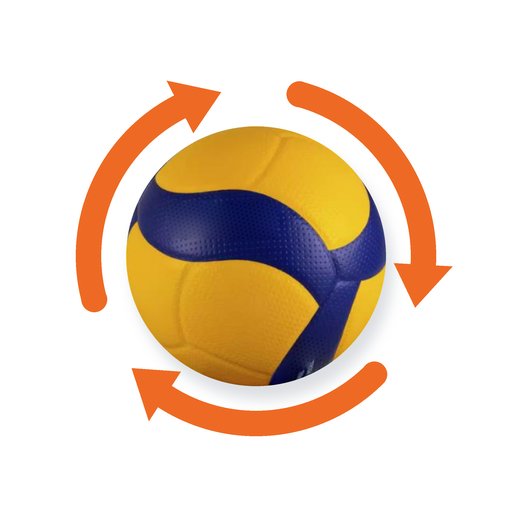
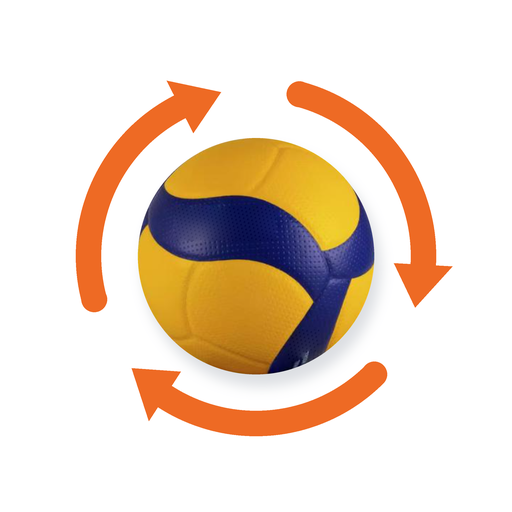
Mniejsza piłka w ikonie (wariant B, 91%)

Changed region(s): [[0.2188, 0.2188, 0.7812, 0.7812], [0.4688, 0.5, 0.5312, 0.5312], [0.5625, 0.5312, 0.5938, 0.5625]]

diff --git a/index.html b/index.html
@@ -9,9 +9,9 @@
 <meta name="apple-mobile-web-app-title" content="Rotacje">
 <meta name="apple-mobile-web-app-status-bar-style" content="default">
 <title>Rotacje w siatkówce</title>
-<link rel="manifest" href="manifest.webmanifest?v=3">
-<link rel="icon" type="image/png" sizes="32x32" href="icons/favicon-32.png?v=3">
-<link rel="apple-touch-icon" href="icons/apple-touch-icon.png?v=3">
+<link rel="manifest" href="manifest.webmanifest?v=4">
+<link rel="icon" type="image/png" sizes="32x32" href="icons/favicon-32.png?v=4">
+<link rel="apple-touch-icon" href="icons/apple-touch-icon.png?v=4">
 <link rel="preconnect" href="https://fonts.googleapis.com">
 <link rel="preconnect" href="https://fonts.gstatic.com" crossorigin>
 <link rel="stylesheet" href="https://fonts.googleapis.com/css2?family=Barlow+Condensed:wght@500;600;700&family=Barlow:wght@400;500;600&display=swap">

diff --git a/sw.js b/sw.js
@@ -1,15 +1,15 @@
 // Działanie offline: aplikacja i czcionki trafiają do pamięci podręcznej telefonu.
 // Strona jest pobierana najpierw z sieci (żeby aktualizacje docierały od razu), a bez internetu z pamięci.
 // Po zmianie listy plików lub ikon podbij numer wersji.
-const CACHE = "rotacje-v5";
+const CACHE = "rotacje-v6";
 const APP_FILES = [
   "./",
   "./index.html",
-  "./manifest.webmanifest?v=3",
-  "./icons/icon-192.png?v=3",
-  "./icons/icon-512.png?v=3",
-  "./icons/apple-touch-icon.png?v=3",
-  "./icons/favicon-32.png?v=3"
+  "./manifest.webmanifest?v=4",
+  "./icons/icon-192.png?v=4",
+  "./icons/icon-512.png?v=4",
+  "./icons/apple-touch-icon.png?v=4",
+  "./icons/favicon-32.png?v=4"
 ];
 
 self.addEventListener("install", (event) => {
